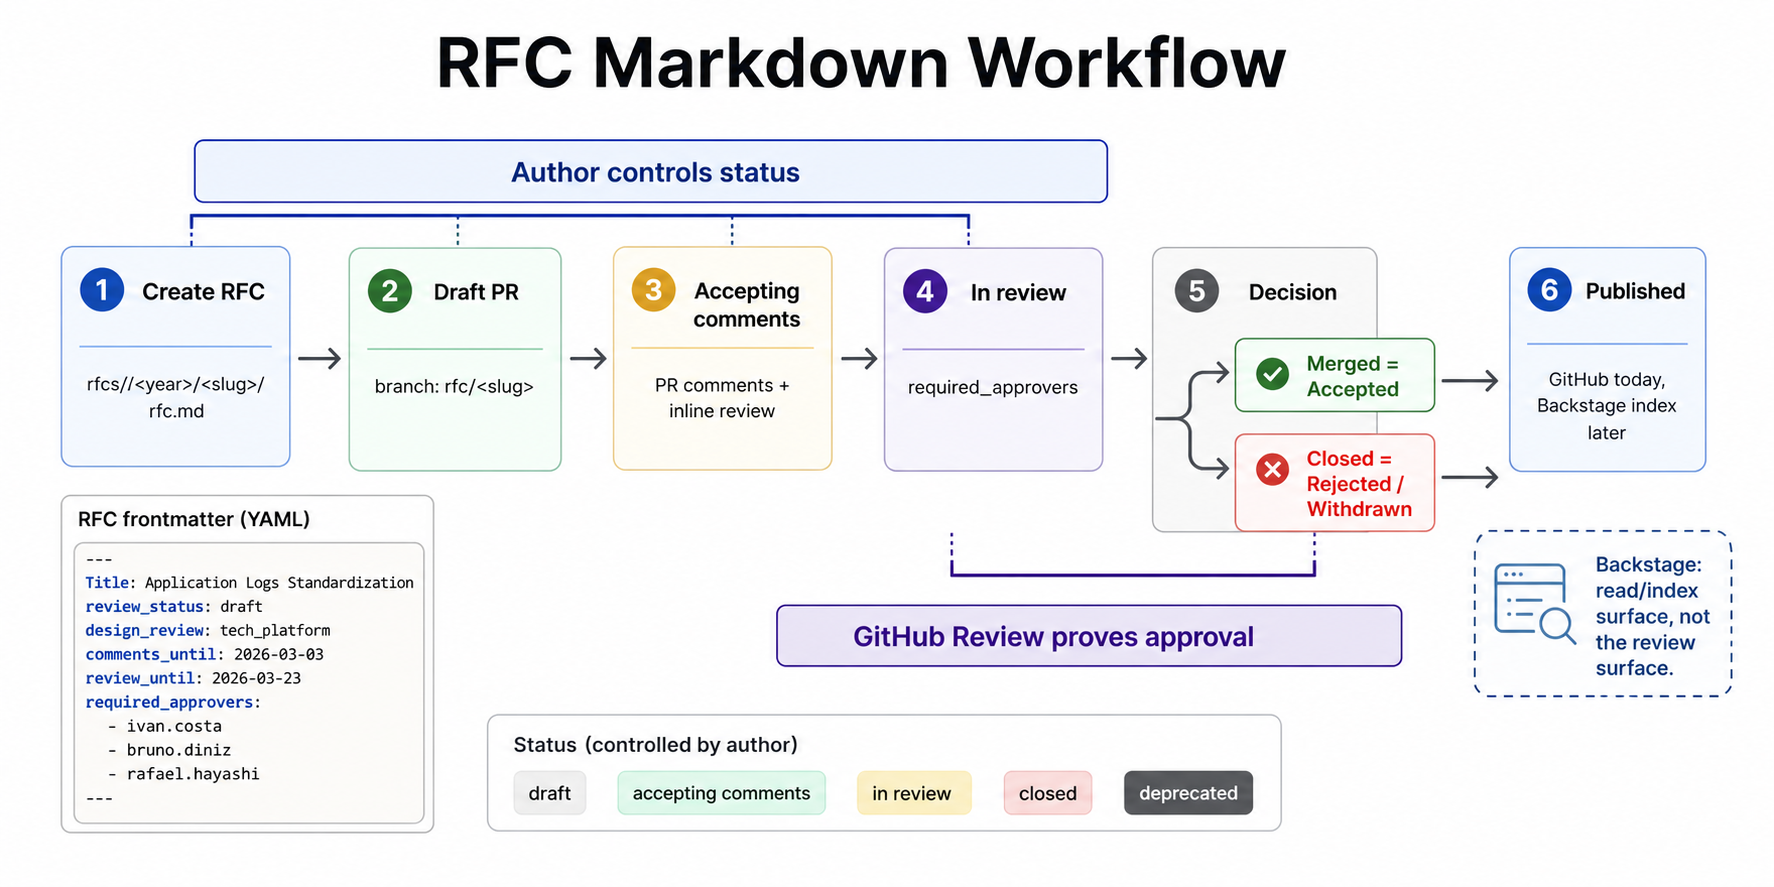
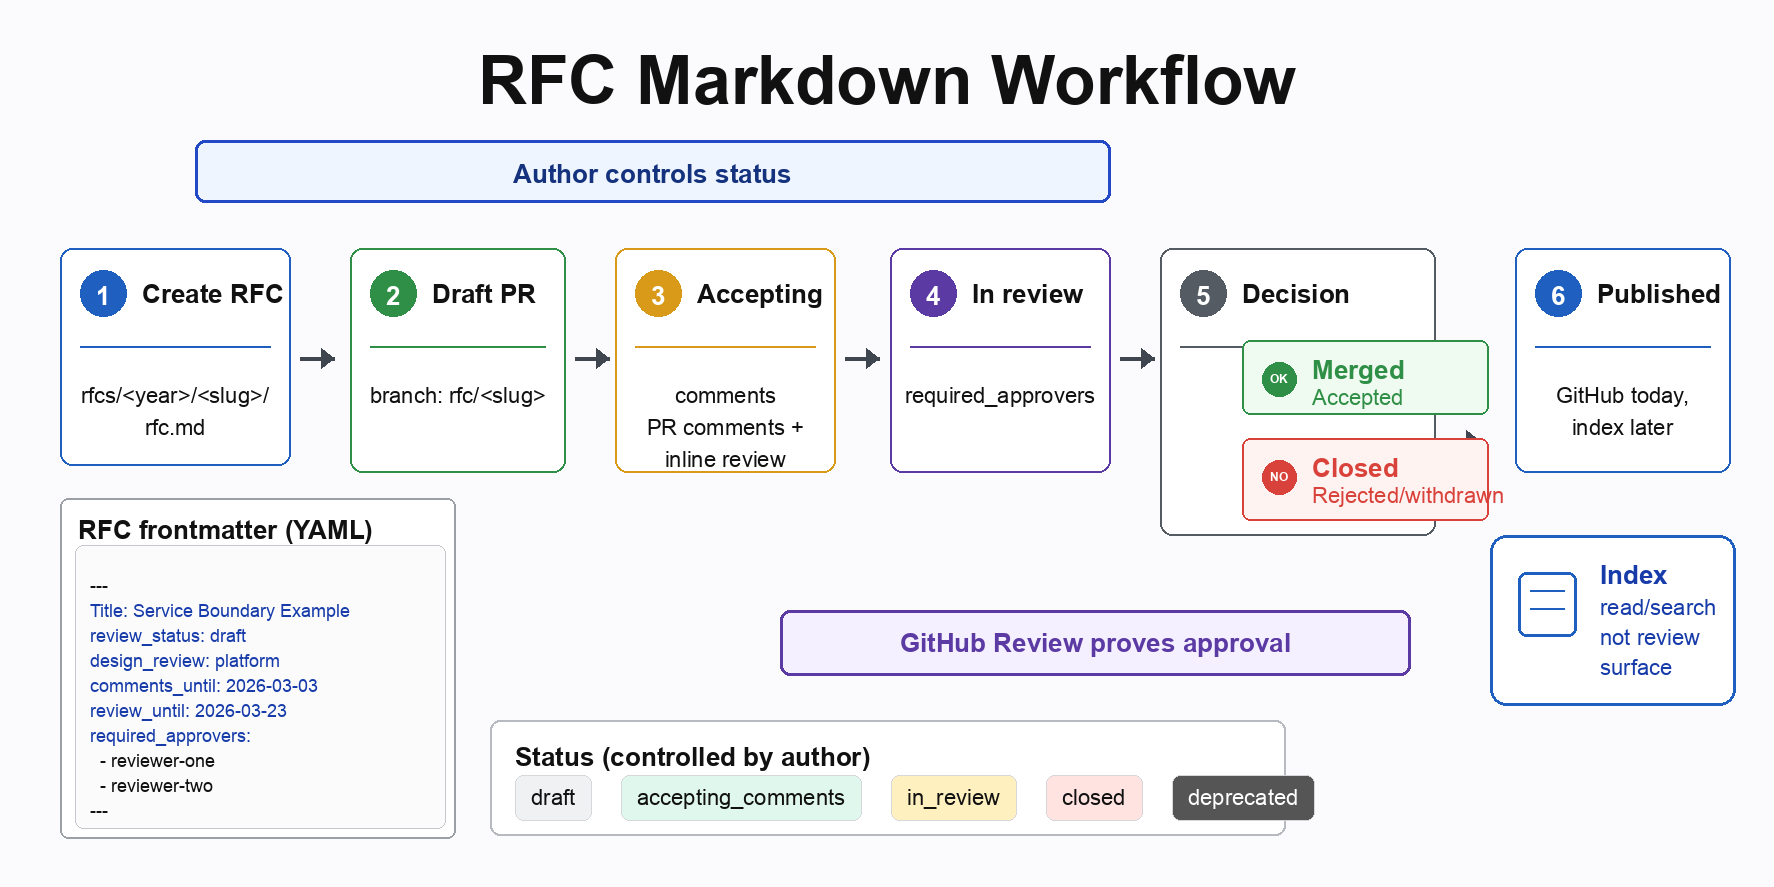
Anonymize public RFC examples

diff --git a/scripts/validate_rfc.py b/scripts/validate_rfc.py
@@ -55,11 +55,28 @@ def changed_files_from_event() -> list[str]:
     if pull_request:
         base = pull_request["base"]["sha"]
         head = pull_request["head"]["sha"]
-        output = run_git(["diff", "--name-only", f"{base}...{head}"])
-        return [line for line in output.splitlines() if line]
+        output = run_git(["diff", "--name-status", f"{base}...{head}"])
+        return changed_files_from_name_status(output)
 
     output = run_git(["ls-files"])
     return [line for line in output.splitlines() if line]
+
+
+def changed_files_from_name_status(output: str) -> list[str]:
+    files = []
+    for line in output.splitlines():
+        if not line:
+            continue
+        parts = line.split("\t")
+        status = parts[0]
+        if status == "D":
+            continue
+        if status.startswith(("R", "C")) and len(parts) >= 3:
+            files.append(parts[2])
+            continue
+        if len(parts) >= 2:
+            files.append(parts[1])
+    return files
 
 
 def changed_rfc_files() -> list[str]:

diff --git a/tests/test_validate_rfc.py b/tests/test_validate_rfc.py
@@ -30,6 +30,25 @@ required_approvers: []
 
         self.assertEqual(approvers, [])
 
+    def test_changed_files_from_name_status_ignores_deleted_files(self):
+        output = "\n".join(
+            [
+                "D\trfcs/2026/old-example/rfc.md",
+                "A\trfcs/2026/new-example/rfc.md",
+                "M\tscripts/validate_rfc.py",
+                "R100\trfcs/2026/renamed-old/rfc.md\trfcs/2026/renamed-new/rfc.md",
+            ]
+        )
+
+        self.assertEqual(
+            validate_rfc.changed_files_from_name_status(output),
+            [
+                "rfcs/2026/new-example/rfc.md",
+                "scripts/validate_rfc.py",
+                "rfcs/2026/renamed-new/rfc.md",
+            ],
+        )
+
     def test_ready_pr_cannot_keep_draft_review_status(self):
         with patch.object(
             validate_rfc,

diff --git a/docs/qna.md b/docs/qna.md
@@ -105,7 +105,7 @@ rfcs/
     assets/
       .gitkeep
   2026/
-    architectural-decoupling-between-terminator-and-inspections-service/
+    service-boundary-example/
       rfc.md
       assets/
         optional-image.png
@@ -147,7 +147,7 @@ RFC folders should be slugs derived from the title:
 Good examples:
 
 ```txt
-rfcs/2026/architectural-decoupling-between-terminator-and-inspections-service/rfc.md
+rfcs/2026/service-boundary-example/rfc.md
 rfcs/2026/iam-authoritative-source/rfc.md
 rfcs/2026/one-app-experience/rfc.md
 ```
@@ -155,10 +155,10 @@ rfcs/2026/one-app-experience/rfc.md
 Bad examples:
 
 ```txt
-rfcs/2026/rfc-architectural-decoupling-between-terminator-and-inspections-service/rfc.md
-rfcs/2026/Architectural Decoupling between Terminator and inspections-service/rfc.md
+rfcs/2026/rfc-service-boundary-example/rfc.md
+rfcs/2026/Service Boundary Example/rfc.md
 rfcs/2026/iam_authoritative_source/rfc.md
-rfcs/2026/001-architectural-decoupling-between-terminator-and-inspections-service/rfc.md
+rfcs/2026/001-service-boundary-example/rfc.md
 ```
 
 ## 15a. What naming convention should RFC branches and PR titles use?
@@ -172,13 +172,13 @@ rfc/<slug>
 Example:
 
 ```txt
-rfc/architectural-decoupling-between-terminator-and-inspections-service
+rfc/service-boundary-example
 ```
 
 RFC PR titles should use:
 
 ```txt
-RFC: Architectural Decoupling between Terminator and inspections-service
+RFC: Service Boundary Example
 ```
 
 Prefer `RFC: <Title>` over `(rfc): <title>`. The `RFC:` prefix is easier to scan in GitHub PR lists and avoids mixing RFC workflow with commit-message conventions.
@@ -227,9 +227,9 @@ The minimum frontmatter should be:
 
 ```yaml
 ---
-Title: Architectural Decoupling between Terminator and inspections-service
+Title: Service Boundary Example
 review_status: draft
-design_review: tech_platform
+design_review: platform
 comments_until:
 review_until:
 required_approvers: []
@@ -380,8 +380,8 @@ The frontmatter lists required GitHub users:
 
 ```yaml
 required_approvers:
-  - ivancosta
-  - brunodiniz
+  - reviewer-one
+  - reviewer-two
 ```
 
 The GitHub PR review proves who approved, when they approved, and which version they approved.

diff --git a/README.md b/README.md
@@ -30,7 +30,7 @@ rfcs/
     assets/
       .gitkeep
   2026/
-    architectural-decoupling-between-terminator-and-inspections-service/
+    service-boundary-example/
       rfc.md
       assets/
 ```
@@ -61,13 +61,13 @@ rfc/<slug>
 Example:
 
 ```txt
-rfc/architectural-decoupling-between-terminator-and-inspections-service
+rfc/service-boundary-example
 ```
 
 Use a human-readable PR title:
 
 ```txt
-RFC: Architectural Decoupling between Terminator and inspections-service
+RFC: Service Boundary Example
 ```
 
 Prefer `RFC: <Title>` over `(rfc): <title>`. The `RFC:` prefix is easier to scan
@@ -79,9 +79,9 @@ Minimum frontmatter:
 
 ```yaml
 ---
-Title: Architectural Decoupling between Terminator and inspections-service
+Title: Service Boundary Example
 review_status: draft
-design_review: tech_platform
+design_review: platform
 comments_until:
 review_until:
 required_approvers: []

diff --git a/AGENTS.md b/AGENTS.md
@@ -32,9 +32,9 @@ Minimum fields:
 
 ```yaml
 ---
-Title: Architectural Decoupling between Terminator and inspections-service
+Title: Service Boundary Example
 review_status: draft
-design_review: tech_platform
+design_review: platform
 comments_until:
 review_until:
 required_approvers: []
@@ -72,7 +72,7 @@ Before claiming changes are done, run:
 
 ```bash
 python3 -m unittest tests/test_validate_rfc.py
-python3 scripts/validate_rfc.py rfcs/2026/architectural-decoupling-between-terminator-and-inspections-service/rfc.md
+python3 scripts/validate_rfc.py rfcs/2026/test-rfc-workflow/rfc.md
 python3 -c "import ast, pathlib; ast.parse(pathlib.Path('scripts/validate_rfc.py').read_text()); print('syntax ok')"
 ```
 

diff --git a/rfcs/_template/rfc.md b/rfcs/_template/rfc.md
@@ -26,8 +26,8 @@ being proposed from this section alone.
 
 ## Background & Motivation
 
-Describe the current state, why a change is needed, and any important internal
-terms or context.
+Describe the current state, why a change is needed, and any important
+domain-specific terms or context.
 
 ## Detailed Proposal
 

diff --git a/rfcs/README.md b/rfcs/README.md
@@ -11,7 +11,7 @@ rfcs/<year>/<slug>/rfc.md
 Example:
 
 ```txt
-rfcs/2026/architectural-decoupling-between-terminator-and-inspections-service/rfc.md
+rfcs/2026/service-boundary-example/rfc.md
 ```
 
 Use `rfcs/_template/rfc.md` when creating a new RFC.
